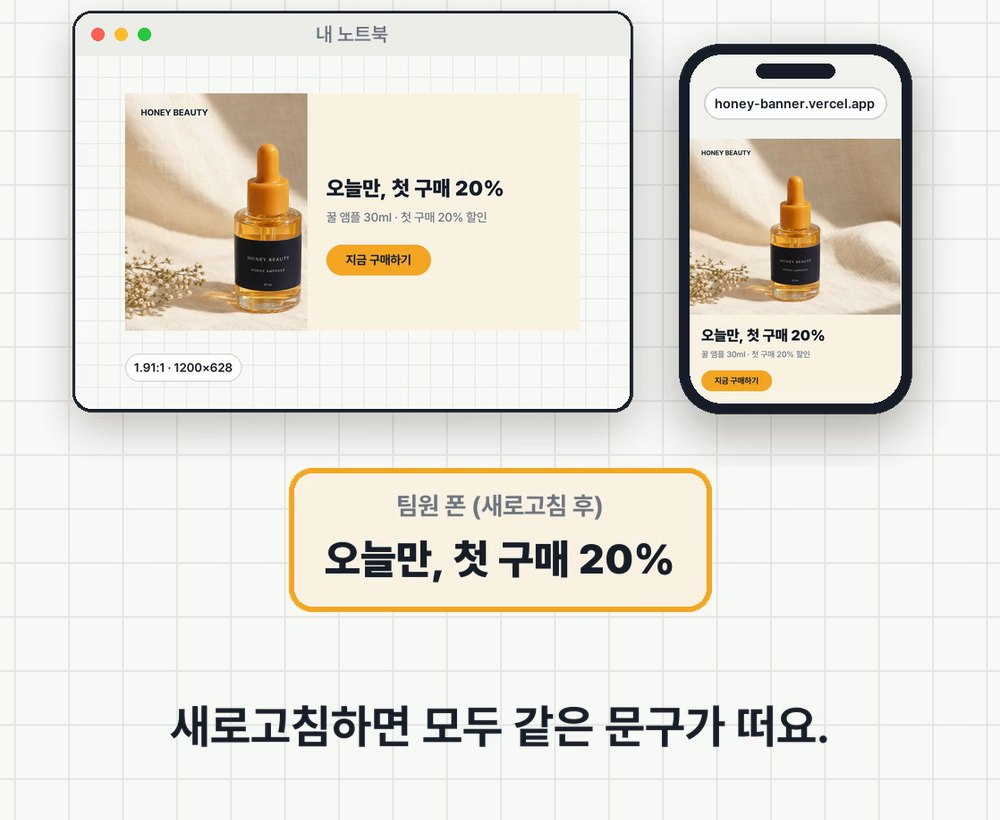
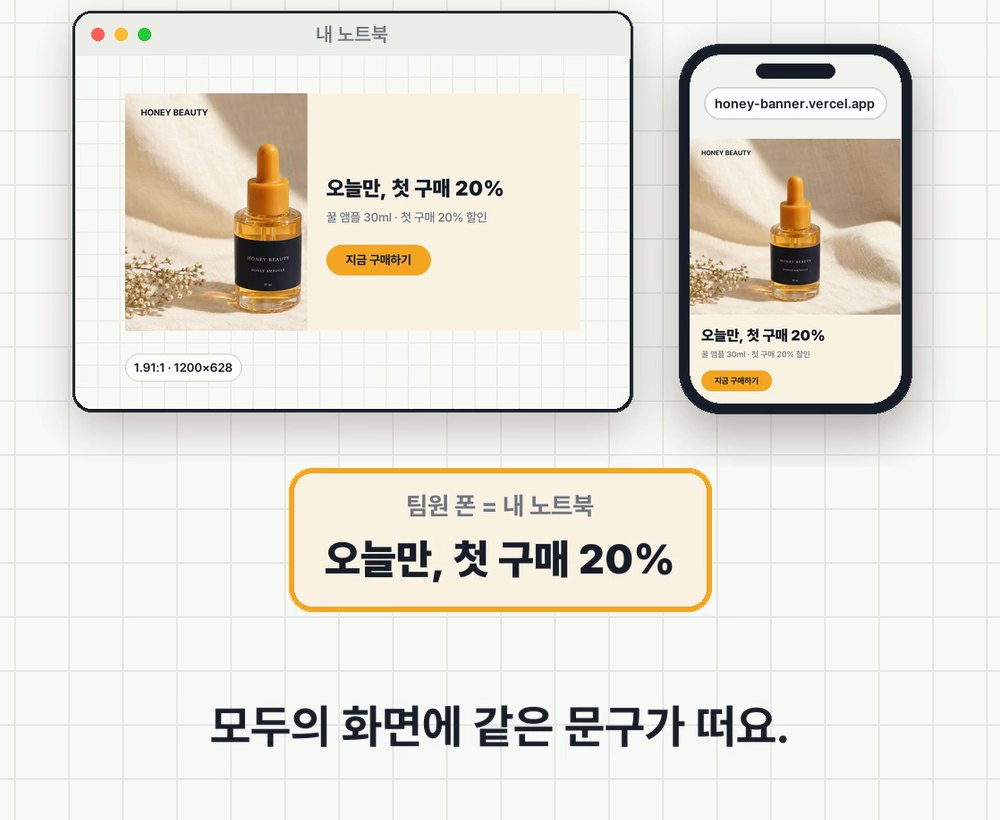
EP.16 썸네일·제목 '내가 만든 툴도, 피그마처럼 같이 쓰기' · 요청문에 실시간 반영(Realtime) · 새로고침 표현 뺌 (목록 Soon! 유지)

Changed region(s): [[0.155, 0.8537, 0.837, 0.9146], [0.403, 0.5793, 0.62, 0.6402]]

diff --git a/ep/16/index.html b/ep/16/index.html
@@ -3,9 +3,9 @@
 <head>
 <meta charset="utf-8">
 <meta name="viewport" content="width=device-width, initial-scale=1">
-<title>EP.16 내가 만든 툴, 팀원이랑 같이 쓰려면 · 이거 모르는 마케터 없게 해주세요</title>
+<title>EP.16 내가 만든 툴도, 피그마처럼 같이 쓰기 · 이거 모르는 마케터 없게 해주세요</title>
 <meta name="description" content="팀원이 고친 문구가 내 화면엔 없다면, 툴이 고친 내용을 각자 브라우저에만 저장해서예요. 툴을 만든 AI한테 저장 위치를 Supabase로 바꿔 달라고 하는 요청문과 연결 단계, 무료 한도.">
-<meta property="og:title" content="EP.16 내가 만든 툴, 팀원이랑 같이 쓰려면">
+<meta property="og:title" content="EP.16 내가 만든 툴도, 피그마처럼 같이 쓰기">
 <meta property="og:description" content="저장 위치를 Supabase로 바꾸는 AI 요청문 + 연결 단계 + 무료 한도.">
 <meta property="og:image" content="https://goofee-9p.github.io/ai-marketing-honey/assets/img/og.jpg">
 <link rel="icon" type="image/svg+xml" href="../../assets/img/logo.svg">
@@ -23,8 +23,8 @@
 
   <div class="hero">
     <span class="chip">EP.16 · 팀이 같이 쓰는 툴</span>
-    <h1>내가 만든 툴,<br><span class="hl">팀원이랑 같이 쓰려면</span></h1>
-    <p class="lead">팀원이 고친 문구가 내 화면엔 없어서 메신저로 다시 묻고 있다면, 이유는 저장 위치예요. 처음 만든 AI 툴은 보통 고친 내용을 <b>각자 브라우저에만</b> 저장해요. 툴을 만든 AI한테 저장 위치를 <b>Supabase(팀 공용 창고)</b>로 바꿔 달라고 하면, 누가 고쳐도 한곳에 저장되고 새로고침하면 모두 같은 문구가 떠요.</p>
+    <h1>내가 만든 툴도,<br><span class="hl">피그마처럼 같이 쓰기</span></h1>
+    <p class="lead">팀원이 고친 문구가 내 화면엔 없어서 메신저로 다시 묻고 있다면, 이유는 저장 위치예요. 처음 만든 AI 툴은 보통 고친 내용을 <b>각자 브라우저에만</b> 저장해요. 툴을 만든 AI한테 저장 위치를 <b>Supabase(팀 공용 창고)</b>로 바꿔 달라고 하면, 누가 고쳐도 한곳에 저장되고 모두의 화면에 같은 문구가 떠요.</p>
     <div class="meta"><span class="chip ghost">AI에 줄 요청문</span><span class="chip ghost">연결 단계</span><span class="chip ghost">더 하기</span></div>
   </div>
 
@@ -36,6 +36,7 @@
       <pre>이 툴은 지금 고친 내용이 내 브라우저에만 저장돼서 팀원 화면에는 안 보여.
 저장 위치를 Supabase로 바꿔 줘. 지금 화면에서 고치는 내용(예: 헤드라인, 버튼 문구, 사이즈)을 Supabase 표에 저장하고, 툴을 열면 그 표에서 불러오게 해 줘.
 내가 Supabase에서 직접 해야 하는 일(프로젝트 만들기, 키 복사 위치, 표 만드는 SQL)을 순서대로 알려 줘.
+다른 사람이 고치면 새로고침 없이 내 화면에도 바로 보이게, 실시간 반영(Realtime)도 켜 줘.
 코드는 몰라도 따라 할 수 있게 한 단계씩 설명해 줘.</pre>
       <p class="tip">💡 팀원이 링크로 열게 하려면 툴이 인터넷 주소로 올라가 있어야 해요(EP.15 참고). 이미 올렸다면 "바꾼 다음 다시 올려 줘"까지 같이 요청하세요.</p>
     </div>
@@ -47,15 +48,15 @@
       <li><a href="https://supabase.com">supabase.com</a>에 가입하고 <b>New project</b>를 만들어요(무료 플랜).</li>
       <li>AI가 준 <b>표 만드는 SQL</b>을 프로젝트의 <b>SQL Editor</b>에 붙여 넣고 실행해요.</li>
       <li>프로젝트 설정의 <b>API</b> 화면에서 <b>Project URL</b>과 <b>공개용 키(anon/publishable)</b>를 복사해 AI한테 줘요. <b>service_role 키는 주지 마세요.</b></li>
-      <li>AI가 고쳐 준 툴을 다시 올리고, 내가 고친 뒤 팀원 화면에서 <b>새로고침</b>해 같은 문구가 뜨는지 확인해요.</li>
+      <li>AI가 고쳐 준 툴을 다시 올리고, 내가 문구를 고친 뒤 팀원 화면에도 같은 문구가 뜨는지 확인해요.</li>
     </ol>
-    <img src="../../assets/img/ep16/sync.jpg" alt="노트북에서 고친 문구가 팀원 폰을 새로고침하자 같은 문구로 뜨는 장면" loading="lazy" style="width:100%;border-radius:16px;border:1.5px solid var(--line);display:block;margin-top:10px">
+    <img src="../../assets/img/ep16/sync.jpg" alt="노트북에서 고친 문구가 팀원 폰에도 같은 문구로 뜨는 장면" loading="lazy" style="width:100%;border-radius:16px;border:1.5px solid var(--line);display:block;margin-top:10px">
   </section>
 
   <section>
     <h2><span class="n">03</span>더 하기 (필요할 때만)</h2>
     <div class="card"><b>우리 팀만 들어오게 — 로그인 + 접근 규칙(RLS)</b><p class="muted" style="margin:4px 0 0">AI한테 "이메일로 로그인한 사람만 열 수 있게 하고, 접근 규칙(RLS)을 켜서 우리 팀만 읽고 쓰게 해 줘"라고 덧붙여요. RLS가 꺼져 있으면 주소와 키를 아는 사람이 표를 읽을 수 있어요.</p></div>
-    <div class="card" style="margin-top:10px"><b>새로고침 없이 바로 — 실시간 반영(Realtime)</b><p class="muted" style="margin:4px 0 0">"다른 사람이 고치면 새로고침 없이 내 화면에도 바로 보이게 Realtime도 켜 줘"라고 덧붙여요. 기본은 꺼져 있어서, 켜지 않으면 새로고침해야 보여요.</p></div>
+    <div class="card" style="margin-top:10px"><b>바로 안 바뀐다면 — 실시간 반영(Realtime) 확인</b><p class="muted" style="margin:4px 0 0">요청문 마지막 줄이 실시간 반영이에요. 기본은 꺼져 있어서, 빠지면 새로고침해야 보여요. 안 바뀌면 AI한테 "Realtime이 켜져 있는지 확인해 줘"라고 물어보세요.</p></div>
     <div class="warn" style="margin-top:12px">
       <ul>
         <li><b>무료(Free) 한도</b>: 프로젝트 2개 · 데이터베이스 500MB. <b>1주일 동안 안 쓰면 일시정지</b>돼요. 데이터는 남지만, 대시보드에서 다시 켜기 전까지 툴이 안 열려요.</li>

diff --git a/index.html b/index.html
@@ -57,7 +57,7 @@
       </div>
       <div class="ep soon" aria-label="EP.16 곧 공개">
         <img src="assets/img/ep16/cover_34.jpg" alt="EP.16 커버">
-        <div><div class="no">EP.16</div><div class="t">내가 만든 툴, 팀원이랑 같이 쓰려면</div><div class="d">팀원이 고친 게 내 화면엔 없다면, 저장 위치 문제. Supabase로 바꾸는 AI 요청문 + 연결 단계 + 무료 한도.</div></div>
+        <div><div class="no">EP.16</div><div class="t">내가 만든 툴도, 피그마처럼 같이 쓰기</div><div class="d">팀원이 고친 게 내 화면엔 없다면, 저장 위치 문제. Supabase로 바꾸는 AI 요청문 + 연결 단계 + 무료 한도.</div></div>
         <span class="badge">Soon!</span>
       </div>
       <a class="ep" href="ep/15/">
